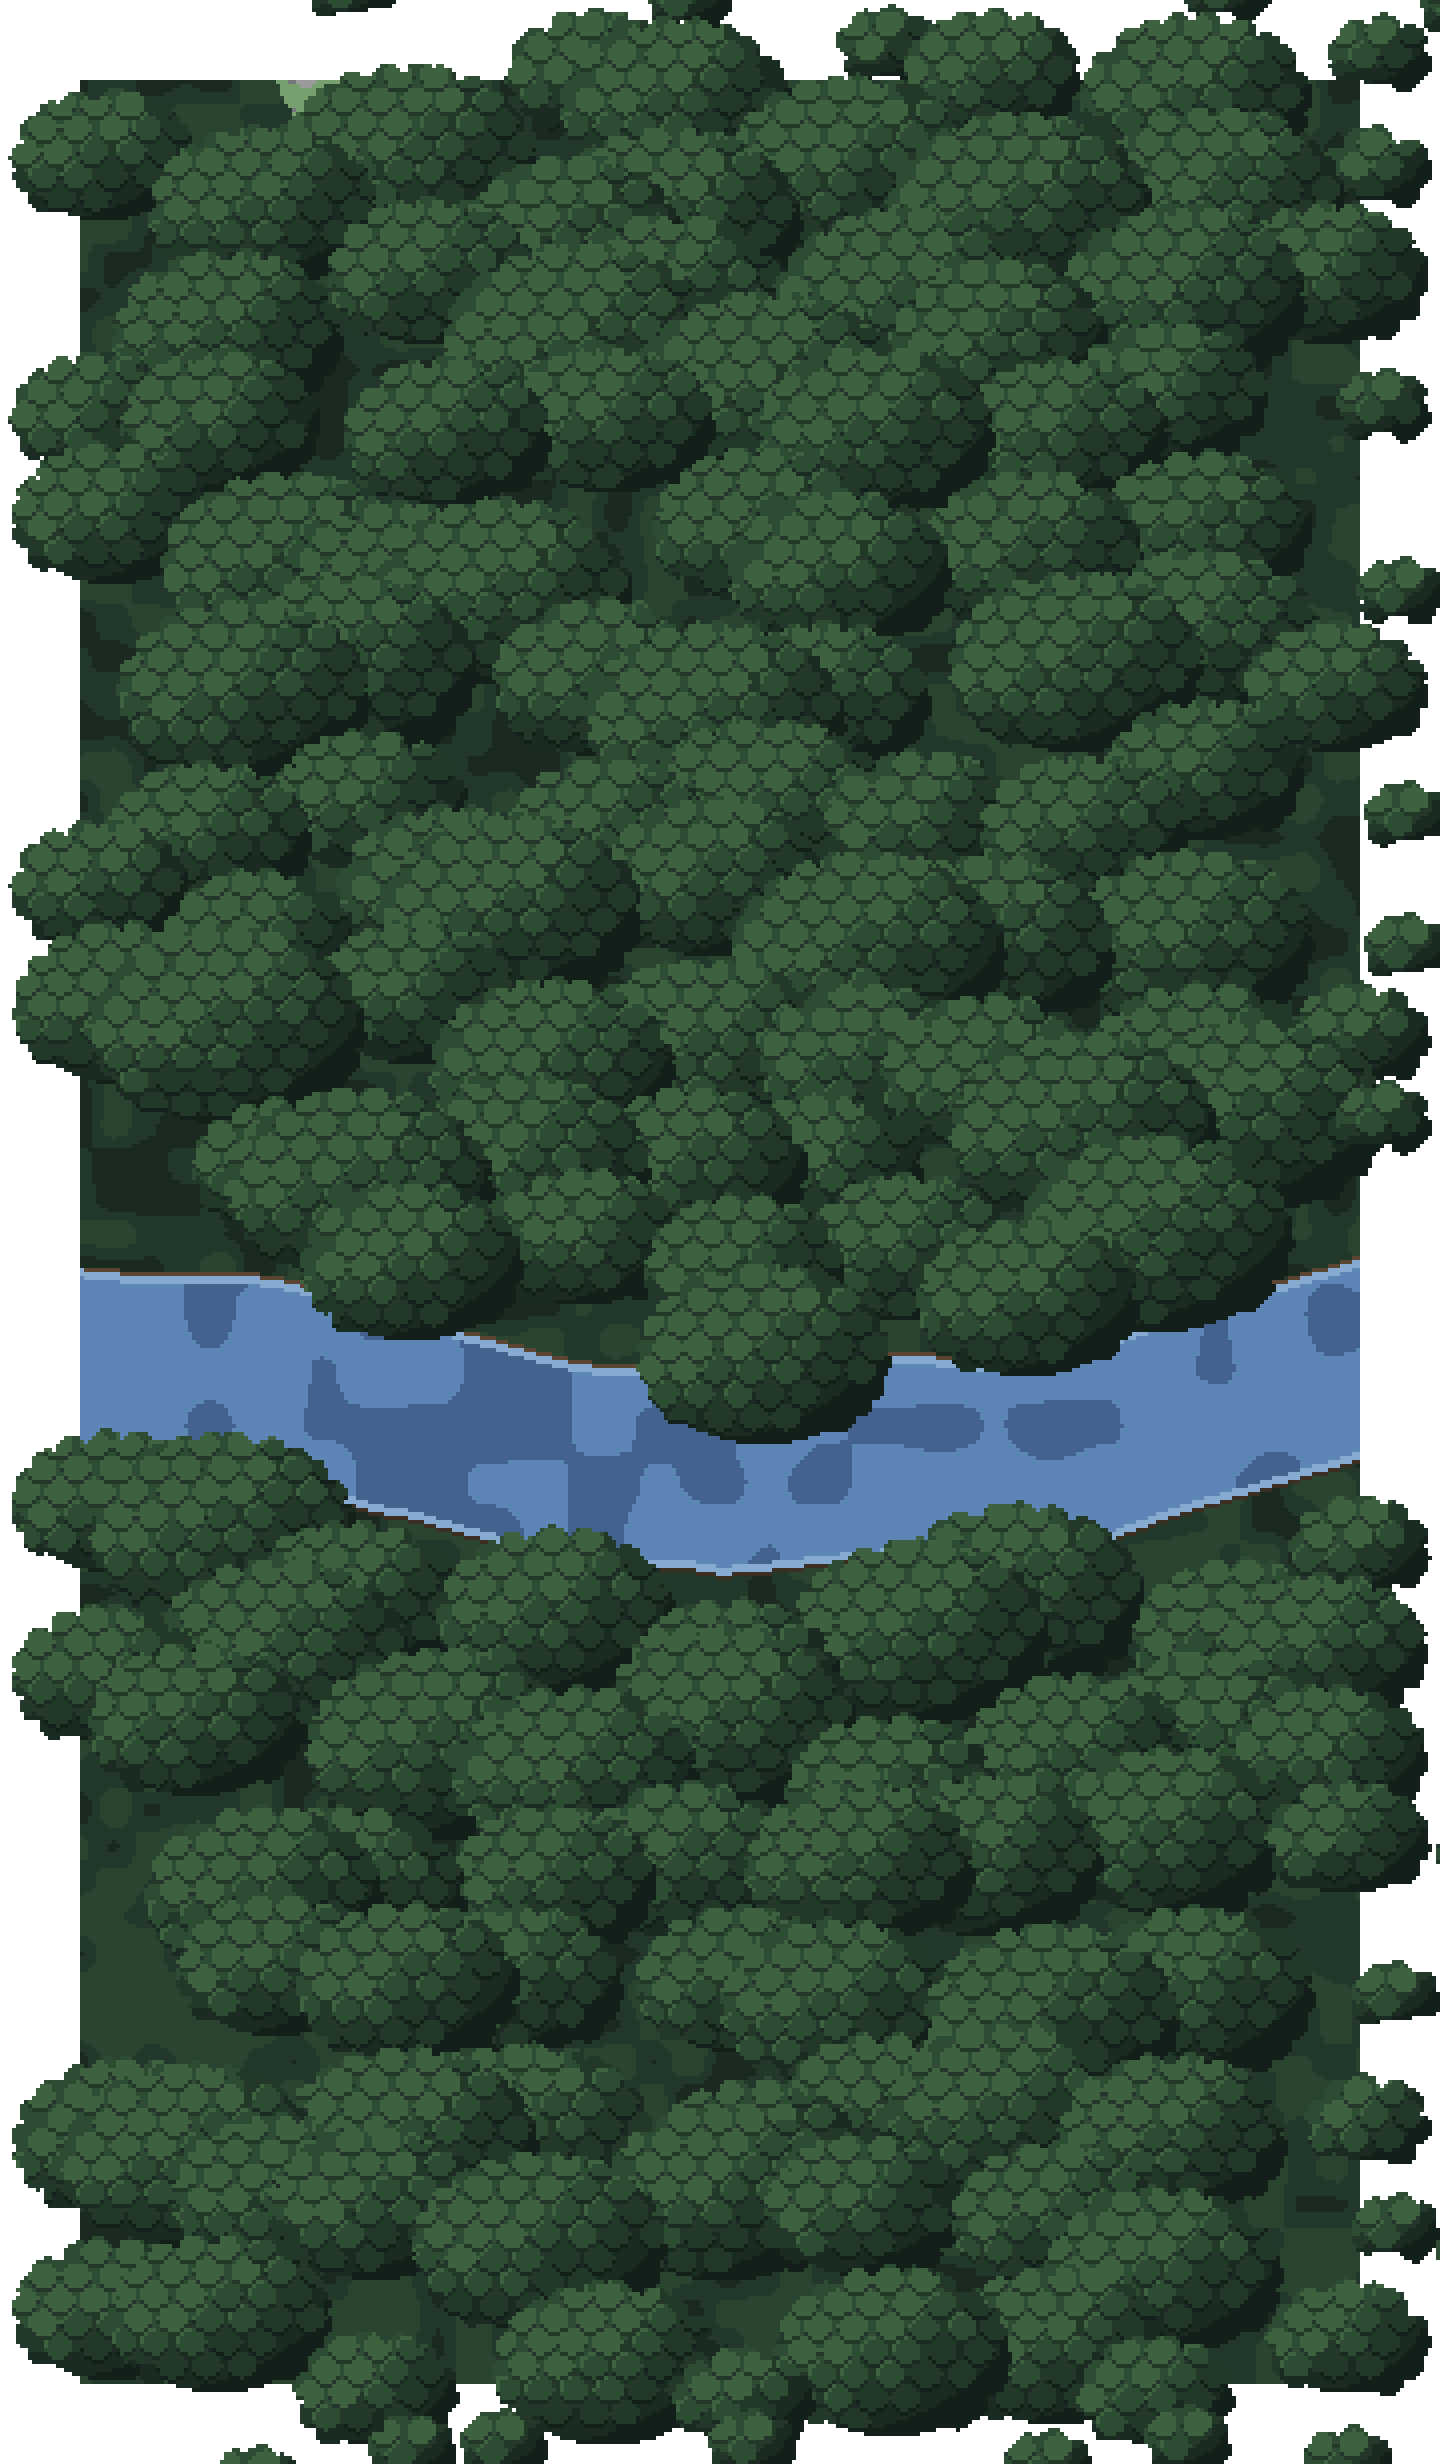
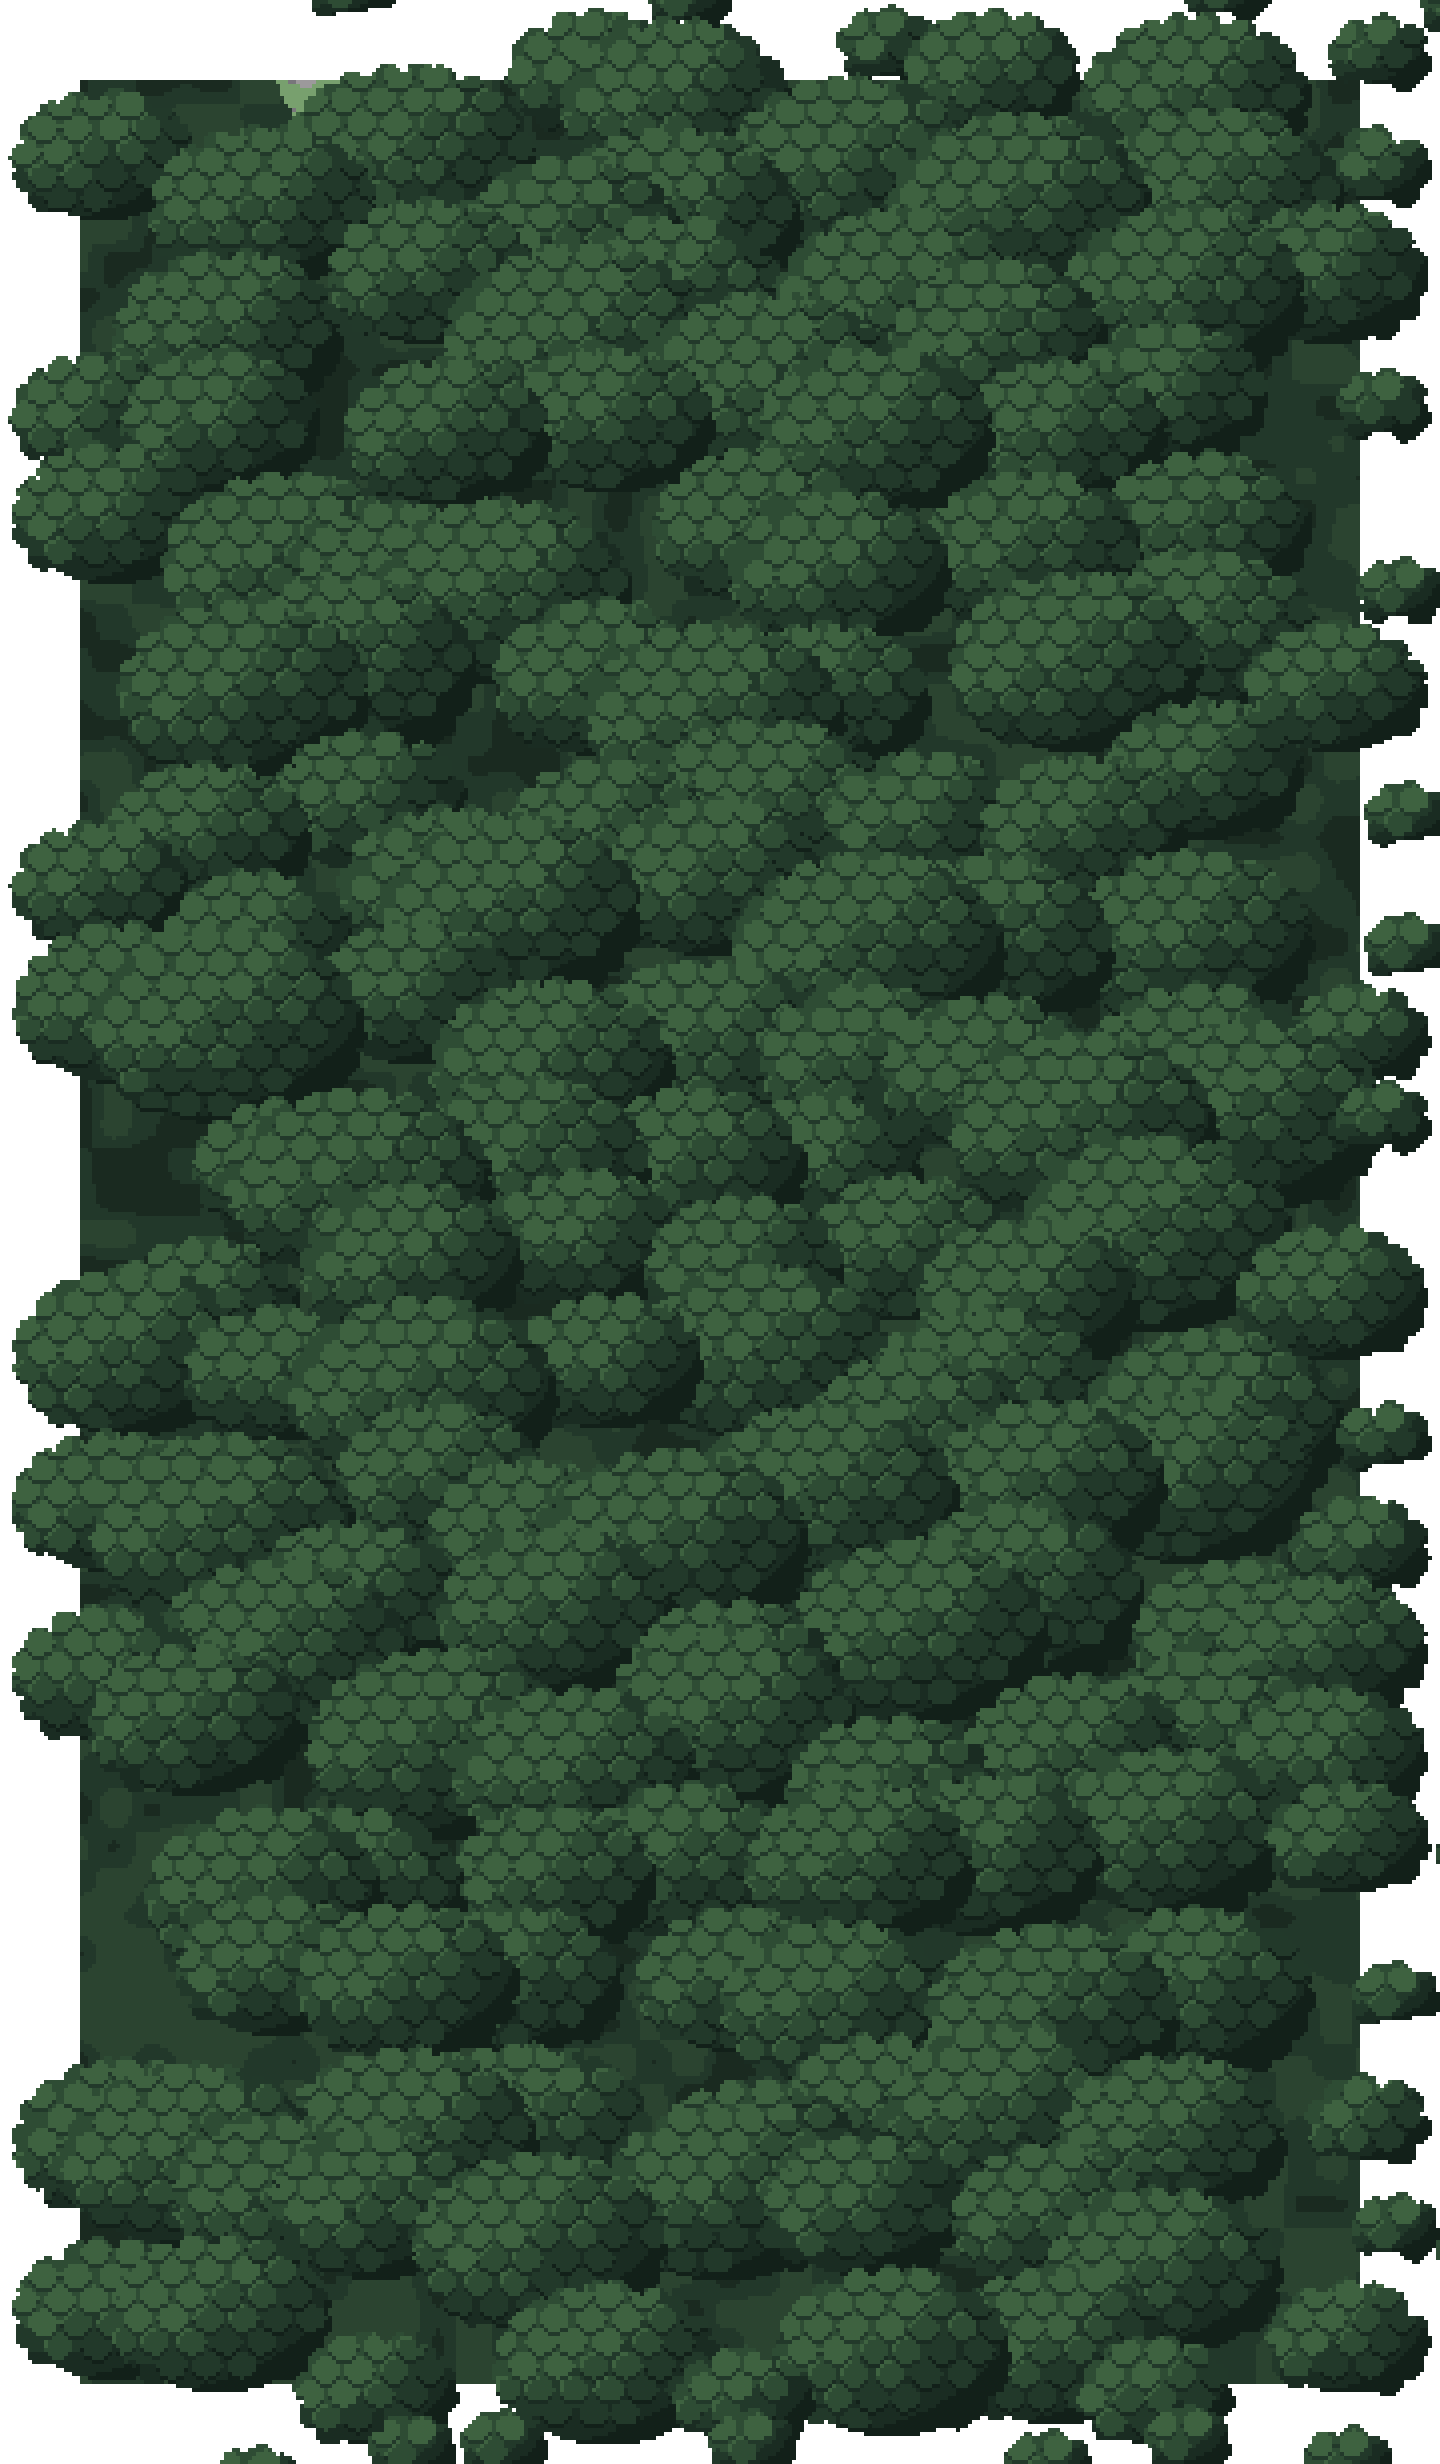
Art reproducibility installs numpy (scenery.py needs it; CI failed on it since f5a6535). The valley's railway now runs on west of the halt in its cutting to a tunnel portal in the wooded hillside instead of into the canopy, and no river leaves the riverside's east edge any more (Claude E's V2 turns 
Claude-Session: https://claude.ai/code/session_01UudrmtYkicLNgZeuSjvjrK

Changed region(s): [[0.0, 0.5, 1.0, 0.6562]]

diff --git a/scripts/art/scenery.py b/scripts/art/scenery.py
@@ -88,7 +88,9 @@ VALLEY_COAST = [(-960, 1690), (-560, 1700), (-320, 1716), (0, 1721), (640, 1531)
                 (1000, 1420), (1280, 1400)]
 # The river that leaves the riverside at its east edge (region y 1-576 band 295-350)
 # runs on east through the old forest (its centre line by region x, and its width).
-VALLEY_RIVER = [(640, 322), (720, 330), (800, 352), (880, 344), (960, 320), (1100, 300)]
+# (none since 19 Oct: Claude E's V2 turns the valley's river south inside the valley, so
+# nothing leaves the riverside's east edge; kept as a hook for a river that does)
+VALLEY_RIVER: list = []
 RIVER_HALF = 26
 
 
@@ -101,8 +103,11 @@ def valley_fields(X, Y):
     away = np.clip(np.minimum(np.abs(X - 0), np.abs(X - 640)) / 80, 0, 1)
     coast = coast + away * 46 * (vnoise(X, 0 * X, 70, 933) - 0.5) + away * 12 * (vnoise(X, 0 * X, 18, 934) - 0.5)
     sea = Y > coast
-    rc = _lerp_points(X, VALLEY_RIVER) + 10 * (vnoise(X, 0 * X, 40, 935) - 0.5) * np.clip((X - 640) / 60, 0, 1)
-    river = (np.abs(Y - rc) < RIVER_HALF) & (X >= 640) & (Y > -60) & (Y < 600)
+    if VALLEY_RIVER:
+        rc = _lerp_points(X, VALLEY_RIVER) + 10 * (vnoise(X, 0 * X, 40, 935) - 0.5) * np.clip((X - 640) / 60, 0, 1)
+        river = (np.abs(Y - rc) < RIVER_HALF) & (X >= 640) & (Y > -60) & (Y < 600)
+    else:
+        rc, river = np.zeros(np.shape(X)), np.zeros(np.shape(X), dtype=bool)
     return alt, sea, river, coast, rc
 
 
@@ -324,6 +329,46 @@ def _peaks(col: int, row: int, alt_at, free):
     return sorted(out)
 
 
+# The valley's railway leaves the halt's west edge in its cutting (halt rows 306-333) and
+# runs on west to a tunnel portal in the wooded hillside, so the line visibly goes
+# somewhere (the 19 Oct merge review: it ran straight into the canopy).
+RAIL = {'zone': 'halt', 'cell': (-1, 1), 'y0': 306, 'y1': 334, 'portal_in': 150}
+
+
+@functools.lru_cache(maxsize=4)
+def _zone_ground(zone: str) -> np.ndarray:
+    import os
+    path = os.path.join(os.path.dirname(__file__), '..', '..', 'assets', 'zones', zone, 'ground.png')
+    return np.array(Image.open(path).convert('RGB').resize((W, H), Image.NEAREST))
+
+
+@functools.lru_cache(maxsize=2)
+def _portal(w: int = 44, h: int = 46) -> Image.Image:
+    """A railway tunnel's portal in the three-quarter view: a face of coursed stone with
+    a lit upper-left edge, a round-headed arch over the track with a keystone, the dark
+    of the tunnel inside, and a bank of earth over its top."""
+    yy, xx = np.mgrid[0:h, 0:w]
+    rgb = _pick(ST, np.where(((yy // 4) % 2 == 0) ^ (((xx + (yy // 4) * 3) // 7) % 2 == 0), 2, 3))
+    rgb = np.where(((yy % 4) == 3)[..., None], _pick(ST, np.full(xx.shape, 1)), rgb)
+    cx, top, half = w / 2, h - 30, 11
+    arch = ((np.abs(xx + 0.5 - cx) <= half) & (yy >= top + half)) | (np.hypot(xx + 0.5 - cx, yy + 0.5 - (top + half)) <= half)
+    ring = (((np.abs(xx + 0.5 - cx) <= half + 3) & (yy >= top + half)) | (np.hypot(xx + 0.5 - cx, yy + 0.5 - (top + half)) <= half + 3)) & ~arch
+    rgb = np.where(ring[..., None], _pick(ST, np.where(xx < cx, 4, 2)), rgb)
+    key = (np.abs(xx + 0.5 - cx) <= 2) & (yy >= top - 3) & (yy < top + 1)
+    rgb = np.where(key[..., None], _pick(ST, np.full(xx.shape, 4)), rgb)
+    rgb = np.where(arch[..., None], np.array(_rgb('#14131A'), dtype=np.uint8), rgb)
+    inner = arch & (np.abs(xx + 0.5 - cx) > half - 2)
+    rgb = np.where(inner[..., None], np.array(_rgb('#2A2733'), dtype=np.uint8), rgb)
+    bank = yy < 6
+    rgb = np.where(bank[..., None], _pick(FOREST_FLOOR, np.where(yy < 3, 1, 2)), rgb)
+    lit = (xx < 2) & ~bank
+    rgb = np.where(lit[..., None], _pick(ST, np.full(xx.shape, 4)), rgb)
+    a = np.zeros((h, w, 4), dtype=np.uint8)
+    a[..., :3] = rgb
+    a[..., 3] = 255
+    return Image.fromarray(a, 'RGBA')
+
+
 def valley_cell(col: int, row: int, zone_at) -> Canvas:
     """One cell of scenery in the valley. `zone_at(col, row)` names the zone there, if any.
 
@@ -349,6 +394,18 @@ def valley_cell(col: int, row: int, zone_at) -> Canvas:
     ground = np.where((river & ~sea)[..., None], _river_rgb(X, Y, rc), ground)
     inside = np.zeros((CH, CW), dtype=bool)
     inside[S:S + H, S:S + W] = True
+    # the railway: the halt's cutting (its walls, ballast, sleepers and rails) carried on
+    # west from its edge, column for column, to the portal
+    rc_, rr_ = RAIL['cell']
+    ry0, ry1 = rr_ * H + RAIL['y0'], rr_ * H + RAIL['y1']
+    rx_end = rc_ * W                       # the halt's west edge, in region x
+    rx_portal = rx_end - RAIL['portal_in']
+    track = (Y >= ry0) & (Y < ry1) & (X >= rx_portal) & (X < rx_end)
+    if track.any() and zone_at(rc_, rr_) == RAIL['zone']:
+        hg = _zone_ground(RAIL['zone'])
+        lx = 1 + np.mod(X - rx_end, 7)
+        ly = np.clip(Y - rr_ * H, 0, H - 1)
+        ground = np.where(track[..., None], hg[ly, lx], ground)
     _paint(cv, ground, inside)
 
     def field(x, y):
@@ -374,13 +431,16 @@ def valley_cell(col: int, row: int, zone_at) -> Canvas:
         a, s1, r1, _c, _r = valley_fields(GX, GY)
         zone = np.vectorize(lambda x, y: bool(zone_px(x, y)))(GX, GY)
         beach = GY > _lerp_points(GX, VALLEY_COAST) - 34
-        return np.where(s1 | r1 | zone | (a > 0.6), None,
+        rail = (GY > ry0 - 14) & (GY < ry1 + 22) & (GX > rx_portal - 6) & (GX < rx_end)
+        return np.where(s1 | r1 | zone | rail | (a > 0.6), None,
                         np.where(a > 0.12, 'pine', np.where(beach, None, 'crown')))
 
     # mountains and trees together, back to front
     things = [(by, 'peak', (left, top, w, h, seed, snow)) for (by, left, top, w, h, seed, snow)
               in _peaks(col, row, lambda x, y: field(x, y)[0], free)]
     things += [(gy, what, (gx, rx, k)) for (gy, gx, what, rx, k) in _trees('valley', col, row, kind_at)]
+    if track.any() and zone_at(rc_, rr_) == RAIL['zone']:
+        things.append((ry1, 'portal', None))
     pine = _pine()
     for (by, what, d) in sorted(things, key=lambda t: t[0]):
         if what == 'peak':
@@ -392,6 +452,9 @@ def valley_cell(col: int, row: int, zone_at) -> Canvas:
             cx1, cy1 = min(CW, px + w), min(CH, py + h)
             if cx1 > cx0 and cy1 > cy0:
                 cv.img.alpha_composite(sp.crop((cx0 - px, cy0 - py, cx1 - px, cy1 - py)), (cx0, cy0))
+        elif what == 'portal':
+            pi = _portal()
+            _stamp(cv, pi, int(rx_portal - x0 - pi.width + 6), int(ry1 - y0 - pi.height))
         elif what == 'crown':
             gx, rx, k = d
             X0, Y0 = gx - x0, by - y0

diff --git a/scripts/art/world_lint.py b/scripts/art/world_lint.py
@@ -131,7 +131,8 @@ def check_props(name, terrain, objects, sprites, overhead):
 NATURAL = ('tree', 'pine', 'willow', 'acacia', 'palm', 'snag', 'bush', 'hedge', 'fern', 'shrub',
            'boulder', 'rock', 'stone', 'scree', 'stump', 'log', 'cactus', 'saguaro', 'prickly',
            'monstera', 'pandanus', 'hibiscus', 'bird_of_paradise', 'banana', 'reeds', 'papyrus',
-           'fireweed', 'cotton_grass', 'mushroom', 'crystal', 'obsidian', 'outcrop')
+           'fireweed', 'cotton_grass', 'mushroom', 'crystal', 'obsidian', 'outcrop',
+           'potted', 'planter', 'pumpkin', 'hay_bale', 'haystack')
 # ...except the ones people put there on purpose
 NATURAL_OK = ('standing_stone', 'stone_bench', 'stone_lantern', 'milestone', 'stepping')
 # Buildings with a door in the middle of their front: something must be walkable in front

diff --git a/scripts/art/zones.py b/scripts/art/zones.py
@@ -689,6 +689,7 @@ def build(name: str, fn, start: str):
 DOORS = {k: 0.5 for k in ('house_blue', 'house_red', 'cabin', 'cafe', 'library', 'workshop', 'workshop_round',
                           'station_house', 'barn', 'bathhouse', 'foundry', 'tube_station', 'cottage', 'cottage_b',
                           'saloon', 'store', 'mine_portal', 'clock_tower', 'lookout_tower')}
+DOORS.update({'cottage_c': 0.5, 'cottage_d': 0.4})  # Claude B's B6 (#45): cottage_d's door is off-centre
 
 
 # Where each zone sits on its region's grid (column, row), in zone-sized steps. The
